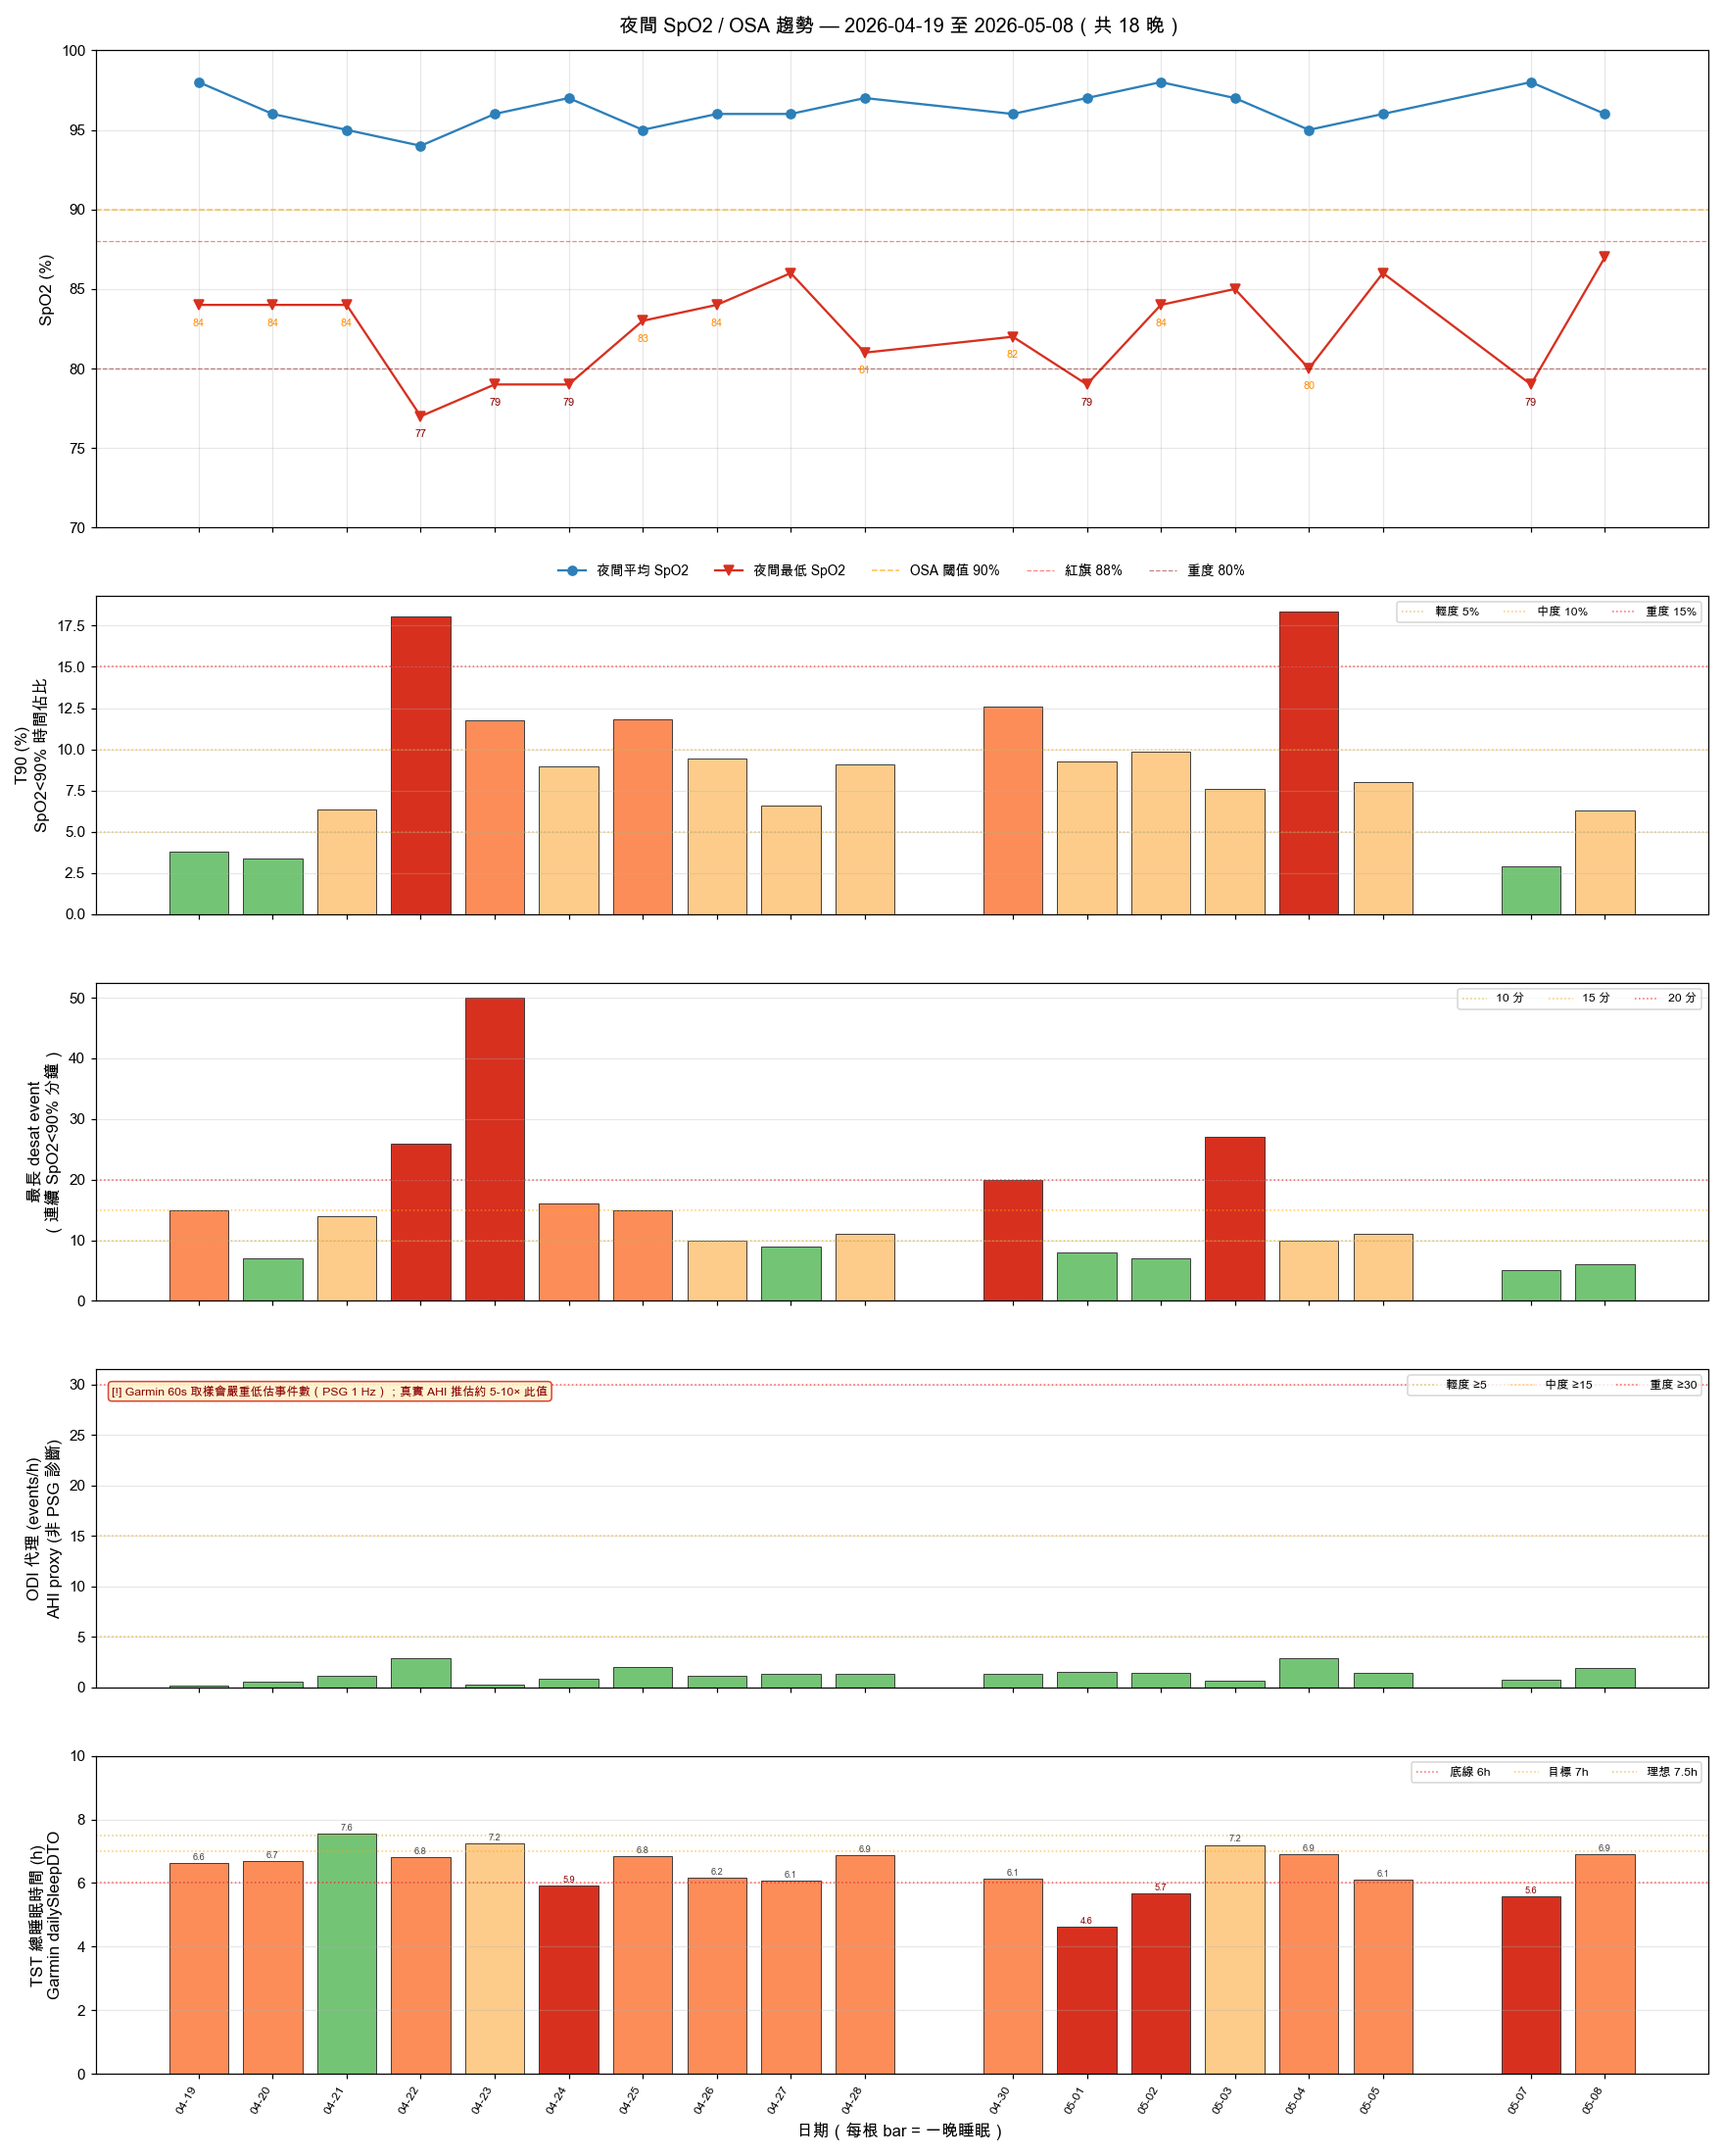
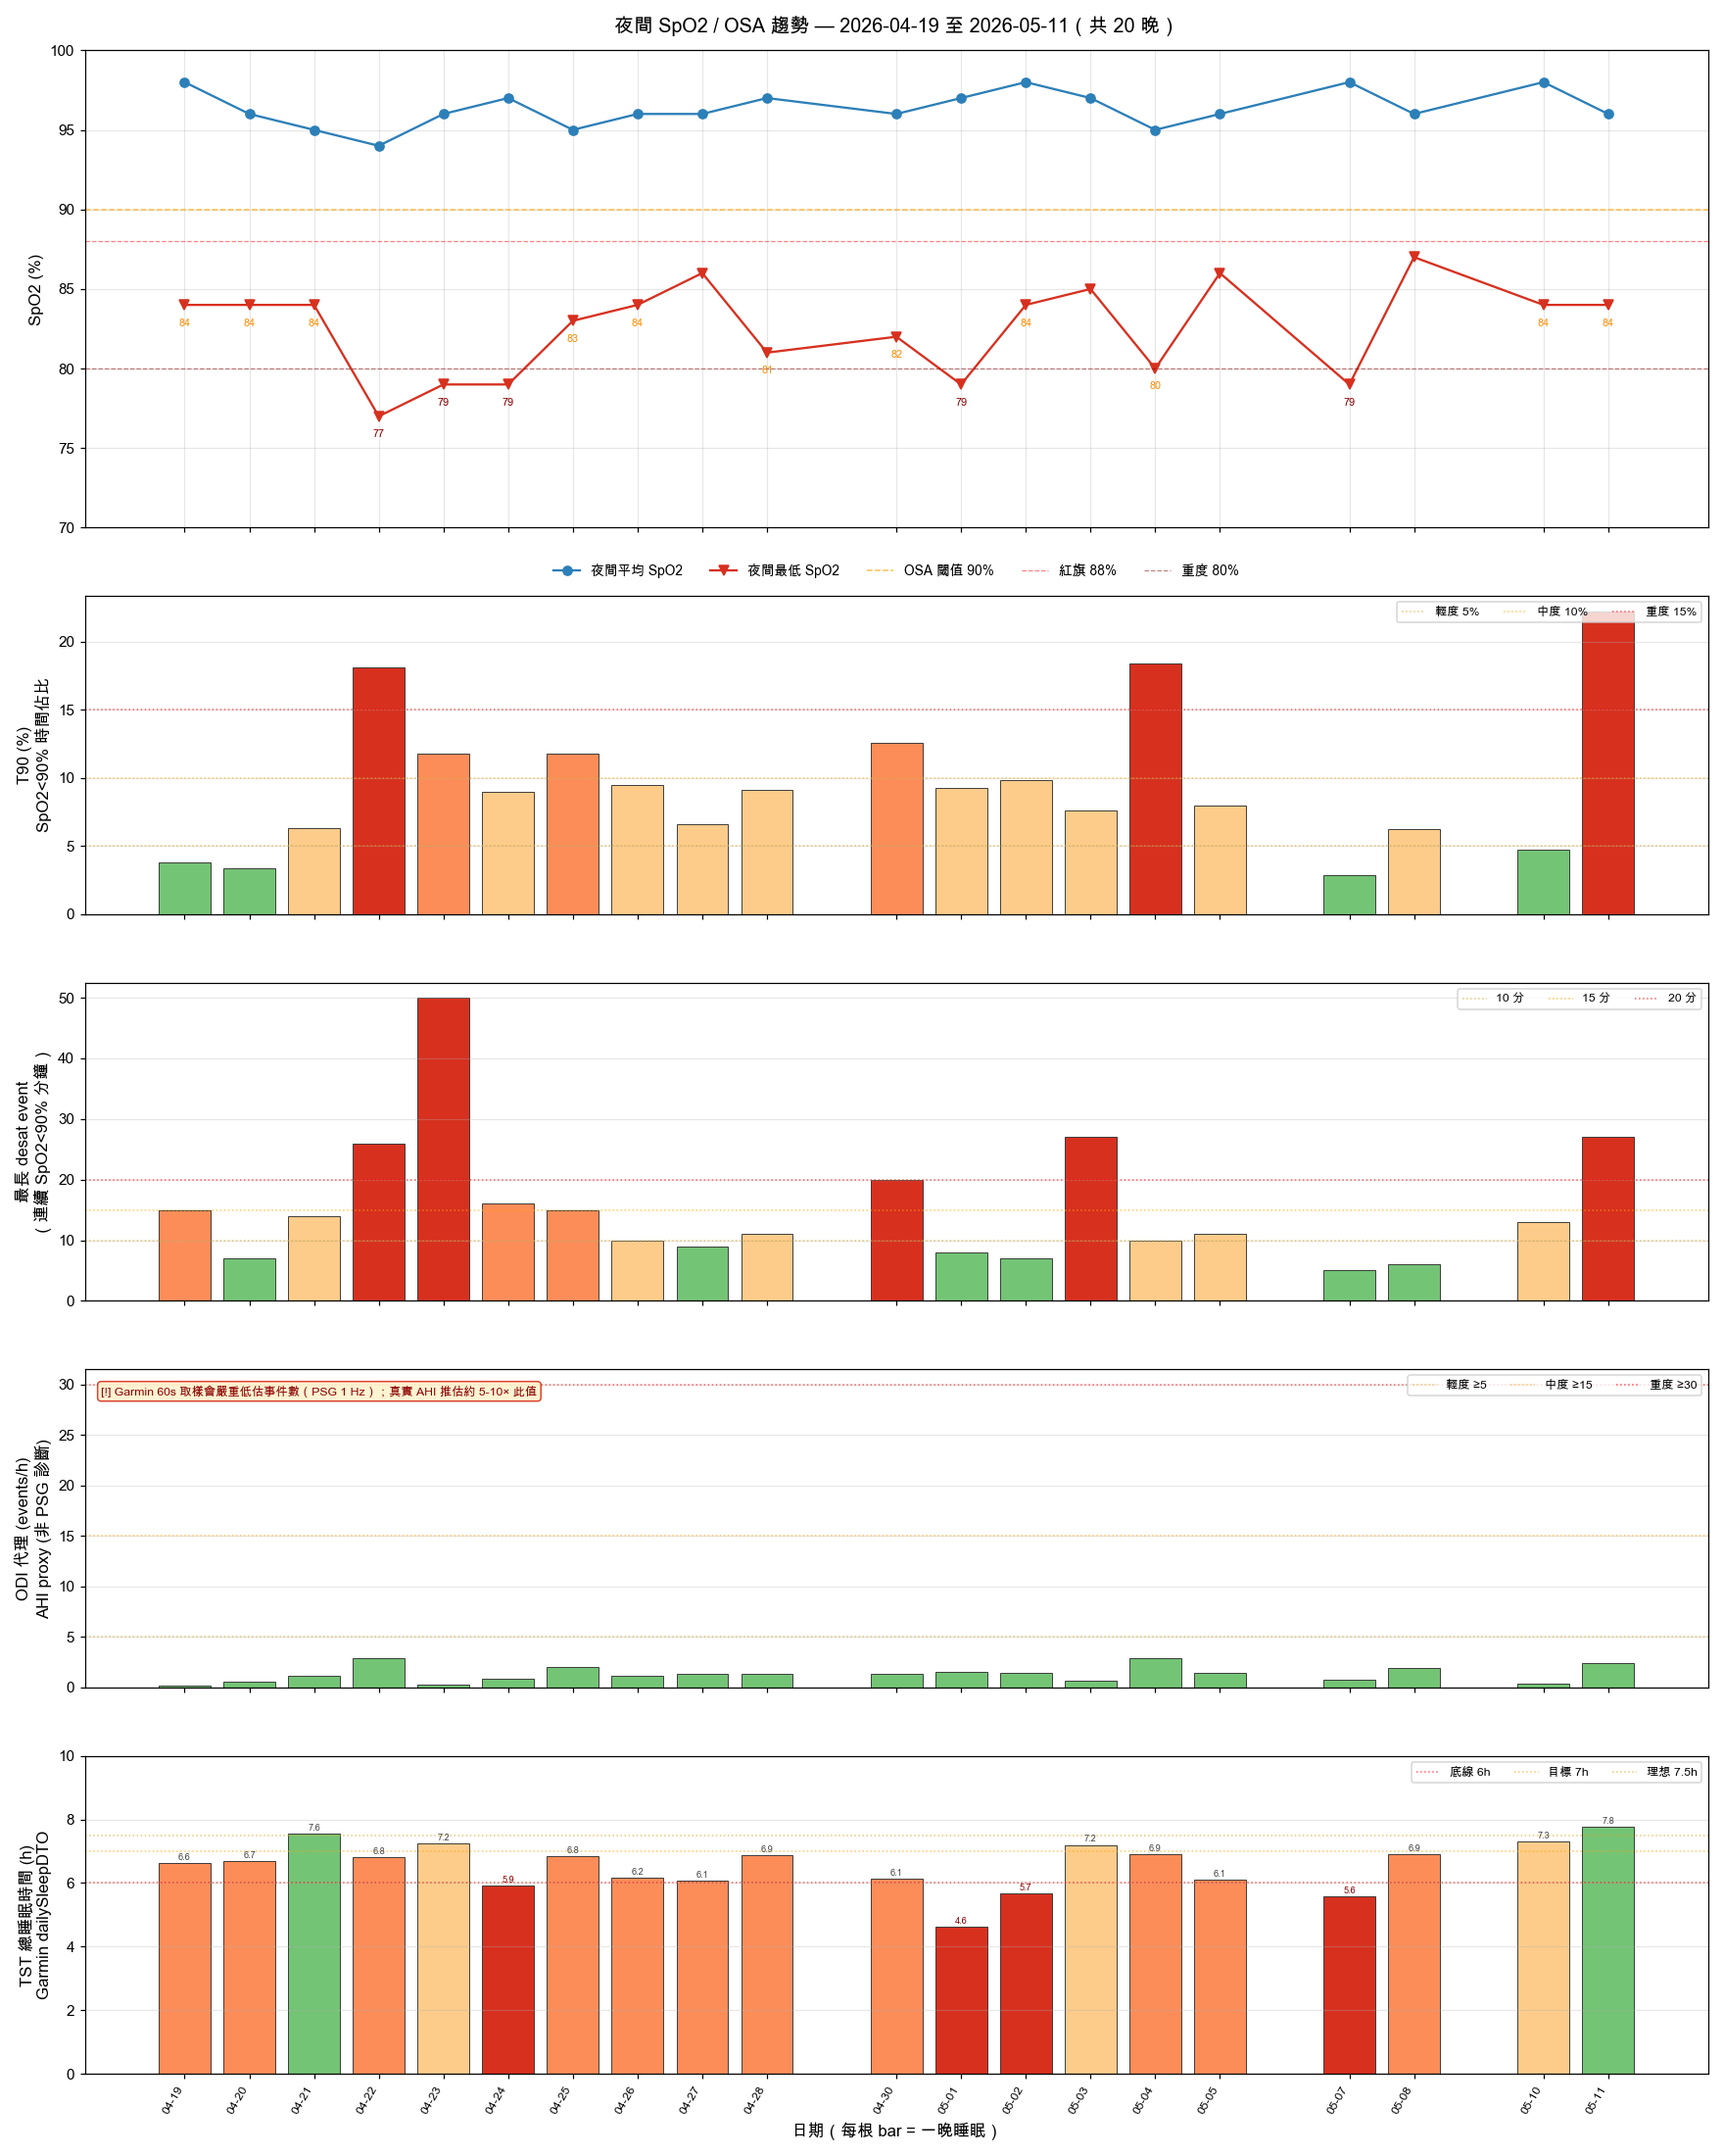
daily check-in 2026-05-11
- 體重 68.7kg / 體脂 20.3% / 內臟脂肪 9.5
- BP 126/74/68（第二次）
- Sleep Score 79 / BB 55 / 主觀恢復 3
- SpO2 最低 84%，T90 22.2%（近期最差）→ OSA 紅旗
- 昨日飲水 1.5L（已回寫 Garmin，低於 2.0L 警示）
- 身體信號：雙肩緊繃 3

diff --git a/data.js b/data.js
@@ -9,8 +9,8 @@ window.HC_DATA = {
     lede:    { en: "Sleep, BP, lipids, uric acid — one shared metabolic root. Lifestyle stacks first; medication only after lifestyle plateaus.",
                zh: "睡眠、血壓、血脂、尿酸——共享同一個代謝根源。生活方式介入優先，等到效果平台期再考慮藥物。" },
     progressLbl: { en: "Weight progress · 70 → 65 kg", zh: "體重進度 · 70 → 65 公斤" },
-    progressMeta: { en: "Day 54 · 68.0 kg · Sat official (5/9)", zh: "第 54 天 · 68.0 公斤 · 週六正式（5/9）" },
-    startDate: { en: "Start date · Mar 17, 2026 · Last sync 5/9", zh: "起始日期 · 2026 年 3 月 17 日 · 最後同步 5/9" },
+    progressMeta: { en: "Day 56 · 68.0 kg · Sat official (5/9)", zh: "第 56 天 · 68.0 公斤 · 週六正式（5/9）" },
+    startDate: { en: "Start date · Mar 17, 2026 · Last sync 5/11", zh: "起始日期 · 2026 年 3 月 17 日 · 最後同步 5/11" },
     startWeight: 70,
     targetWeight: 65,
     currentWeight: 68.0,
@@ -20,14 +20,14 @@ window.HC_DATA = {
   markers: [
     {
       sys: "heart", name: { en: "Blood Pressure", zh: "血壓" },
-      val: "124/72", unit: "mmHg",
-      delta: { en: "W18 weekly avg (4 days) · target met (<130) · last 123/76 (5/9)", zh: "W18 週均（4 天）· 已達標 (<130) · 最新 123/76 (5/9)" },
+      val: "126/76", unit: "mmHg",
+      delta: { en: "W19 weekly avg (4 days) · target met (<130) · last 126/74 (5/11)", zh: "W19 週均（4 天）· 已達標 (<130) · 最新 126/74 (5/11)" },
       cadence: { en: "Daily · weekly avg", zh: "每日 · 週均" },
       status: "ok",
     },
     {
       sys: "sleep", name: { en: "Sleep Score", zh: "睡眠分數" },
-      val: "78", unit: "Garmin",
+      val: "79", unit: "Garmin",
       delta: { en: "5/4 · OSA flag: T90 18.4% (severe)", zh: "5/4 · OSA 紅旗：T90 18.4%（重度）" },
       cadence: { en: "Daily · Garmin", zh: "每日 · Garmin" },
       status: "warn",
@@ -820,14 +820,14 @@ window.HC_DATA = {
   tracker: {
     // [SBP, DBP] — gaps filled with prior reading
     bp: [
-      [122,70], [129,75], [127,75], [127,72], [127,72], [127,72], [127,72], [113,68], [113,68], [113,68], [128,78], [120,73], [131,79], [123,76],
+      [129,75], [127,75], [127,72], [127,72], [127,72], [127,72], [113,68], [113,68], [113,68], [128,78], [120,73], [131,79], [123,76], [126,74],
     ],
     // 4/21–5/4 daily weight (kg)
-    weight: [68.6, 68.9, 68.4, 68.2, 67.8, 67.9, 67.8, 68.7, 69.1, 68.4, 68.2, 68.2, 68.1, 68],
+    weight: [68.9, 68.4, 68.2, 67.8, 67.9, 67.8, 68.7, 69.1, 68.4, 68.2, 68.2, 68.1, 68, 68.7],
     // Garmin Sleep Score
-    sleep:  [64, 64, 69, 64, 71, 52, 69, 77, 77, 71, 75, 68, 78, 78],
+    sleep:  [64, 69, 64, 71, 52, 69, 77, 77, 71, 75, 68, 78, 78, 79],
     // Body Battery waking
-    bb:     [60, 57, 57, 58, 51, 47, 41, 54, 49, 47, 56, 47, 37, 48],
+    bb:     [57, 57, 58, 51, 47, 41, 54, 49, 47, 56, 47, 37, 48, 55],
   },
 
   // ===== Running — started 2026-04-26 =====

diff --git a/reviews/weekly/2026-W20.md b/reviews/weekly/2026-W20.md
@@ -1,0 +1,143 @@
+# 週回顧 — 2026-W20（2026-05-11 – 2026-05-17）
+
+*週日晚間填寫。10 分鐘。回顧本週，不批判，只觀察。*
+
+---
+
+## 〇、半年計畫目標對照
+
+*從 index.html 半年健康逆轉計畫提取。每週檢視自己在哪個位置。*
+
+| 指標 | 當月目標 | 本週實際 | 差距 |
+|------|----------|----------|------|
+| 體重（週六早晨讀數） | _____ kg（第__月目標） | _____ kg | _____ kg |
+| 體脂率 | _____%（目標 ≤ _____%） | _____% | ____% |
+| 內臟脂肪 | _____ （目標 ≤ _____） | _____ | _____ |
+| 收縮壓（週均） | < 130 mmHg（終極 < 125） | _____ mmHg | |
+| Sleep Score（週均） | ≥ 70（進階 ≥ 80） | _____ | |
+| Body Battery 起床值（週均） | ≥ 65（進階 ≥ 75） | _____ | |
+| 每日步數（週均） | ≥ _____ 步（依階段） | _____ 步 | |
+| 每週運動時間 | ≥ _____ 分鐘（依階段） | _____ 分鐘 | |
+
+**半年里程碑參考：**
+- 第 0 月 70.0 kg → 第 1 月 69.2 → 第 2 月 68.3 → 第 3 月 67.5 → 第 4 月 66.7 → 第 5 月 65.8 → 第 6 月 65.0 kg
+- 運動：第 1-2 月 120-150 分/週 → 第 3-4 月 170-210 分/週 → 第 5-6 月 250-300 分/週
+
+---
+
+## 一、數據總覽
+
+### 體重
+
+|  | 一 | 二 | 三 | 四 | 五 | 六 | 日 |
+|--|----|----|----|----|----|----|-----|
+| 體重 (kg) | 68.7 | | | | | | |
+| 體脂率 (%) | 20.3 | | | | | | |
+| 內臟脂肪 | 9.5 | | | | | | |
+
+**本週正式讀數（週六早晨）：** _____ kg｜體脂率：_____%｜內臟脂肪：_____
+**上週正式讀數（週六早晨）：** _____ kg｜體脂率：_____%｜內臟脂肪：_____
+**體重變化：** _____ kg｜體脂率變化：_____%｜內臟脂肪變化：_____
+
+---
+
+### 血壓（第二次讀數）
+
+| 日期 | 收縮壓 | 舒張壓 | 心率 |
+|------|--------|--------|------|
+| 05-11 (一) | 126 | 74 | 68 |
+| 05-12 (二) | | | |
+| 05-13 (三) | | | |
+| 05-14 (四) | | | |
+| 05-15 (五) | | | |
+| 05-16 (六) | | | |
+| 05-17 (日) | | | |
+
+**本週平均：** _____ / _____ mmHg，心率 _____ bpm
+
+*收縮壓週均 > 130 或舒張壓 > 85 → 標記為需關注。*
+
+---
+
+### 睡眠
+
+| 日期 | 就寢 | 起床 | 中途醒 | Sleep Score | Body Battery | 主觀恢復 |
+|------|------|------|--------|-------------|--------------|----------|
+| 05-11 (一) | 21:46 | 06:01 | 0 | 79 | 55 | 3 |
+| 05-12 (二) | | | | | | |
+| 05-13 (三) | | | | | | |
+| 05-14 (四) | | | | | | |
+| 05-15 (五) | | | | | | |
+| 05-16 (六) | | | | | | |
+| 05-17 (日) | | | | | | |
+
+**Sleep Score 週均：** _____ / 100
+**Body Battery 週均：** _____
+**主觀恢復感週均：** _____ / 5
+**連續 < 65 天數：** _____
+**22:30 前就寢天數：** _____ / 7
+
+---
+
+## 二、身體信號模式
+
+*本週 Daily 中記錄的身體信號，標注出現頻率與強度變化。*
+
+| 信號（部位+性質） | 出現天數 | 平均強度 | 趨勢（↑↓→） | 備註 |
+|-------------------|----------|----------|-------------|------|
+| 雙肩 緊繃 | 1 | 3 | → | 首日記錄 |
+
+**反覆出現（≥ 3 天）：** 無
+
+*同一信號連續 3 天以上 → 考慮就醫或調整訓練。*
+
+---
+
+## 三、執行率
+
+### 每日習慣
+
+| 項目 | 完成天數 | 完成率 |
+|------|----------|--------|
+| 飲水 2.5L | / 7 | % |
+| 補充品（洛神花茶 ×2 + 魚油 ×2 + D3K2 3000IU + 酸櫻桃 500mg + 鎂 400mg + Citrulline 2g + Psyllium 5g ×2） | / 7 | % |
+| 運動 | / 7 | % |
+| 活動度/伸展 | / 7 | % |
+
+### 本週運動紀錄
+
+| 日期 | 運動內容（含組數/時間） |
+|------|------------------------|
+| 05-11 | 依預設計畫 |
+
+---
+
+## 四、本週觀察
+
+*一句話描述本週整體狀態。不用完美，誠實就好。*
+
+>
+
+---
+
+## 五、下週調整
+
+*根據本週觀察，列出 1–3 個具體、可執行的調整。不要列太多。*
+
+- [ ]
+- [ ]
+
+---
+
+## 六、恢復策略紀錄
+
+*若本週觸發任何警報（Sleep Score < 65、身體信號 ≥ 3 天、血壓異常），記錄採取的應對措施。*
+
+| 警報 | 應對措施 | 效果 |
+|------|----------|------|
+| SpO2 連續 6/7 晚 < 88%（05-11 T90=22.2%） | 預約 PSG 多項睡眠檢查 | 待 |
+| 昨日飲水 1.5L < 2.0L | 本週重點關注；17:00 前完成 60-70% 目標量 | 待 |
+
+---
+
+*Filed: reviews/weekly/2026-W20.md*

diff --git a/reviews/daily/2026-05-11.md b/reviews/daily/2026-05-11.md
@@ -1,0 +1,84 @@
+# 晨間健康紀錄 — 2026-05-11
+
+*3 分鐘。起床後立即完成。記錄，不分析。*
+
+---
+
+## 體重
+
+**今日：68.7 kg**
+**體脂率：20.3 %**
+**內臟脂肪等級：9.5**
+
+*每週六早晨為正式紀錄（排尿後、進食前；連 5 個工作日後、週末大餐前的真實低點）。其他日可選填。*
+
+---
+
+## 血壓（晨間）
+
+*起床後 1 小時內，上完廁所、進食前。坐下安靜 5 分鐘，連量兩次取第二次。*
+
+| 次數 | 收縮壓 | 舒張壓 | 心率 |
+|------|--------|--------|------|
+| 第一次 | — | — | — |
+| 第二次 | 126 | 74 | 68 |
+
+---
+
+## 睡眠狀態
+
+**實際就寢：** 21:46
+**實際起床：** 06:01
+**中途醒來：** 無
+**Garmin Sleep Score：** 79 / 100
+**Garmin Body Battery 起床值：** 55
+**主觀恢復感：** 3 / 5（1=極度疲憊, 5=精力充沛）
+
+### SpO2 夜間最低（7 晚趨勢）
+
+| 日期 | -6 | -5 | -4 | -3 | -2 | -1 | 今晨 |
+|------|----|----|----|----|----|----|------|
+| 日期 | 05-05 | 05-06 | 05-07 | 05-08 | 05-09 | 05-10 | 05-11 |
+| 最低 % | 86 | 84 | 79 | 87 | — | 84 | 84 |
+
+**今晨日均 SpO2：** 95%
+**< 88% 連續晚數：** 7 晚中 6 晚（05-09 缺檔；今晚 T90 = 22.2% 為近期最差，總 desat 110 分鐘）→ **OSA 紅旗，強烈建議盡快安排 PSG**
+
+**SpO2 全夜圖：** ![](./spo2/spo2_desat_2026-05-11.png)
+**SpO2 趨勢圖：** ![](./spo2/spo2_desat_trend.png)
+**SpO2 多晚 Overlay（rolling 7 晚）：** ![](./spo2/spo2_overlay_2026-05-05_to_2026-05-11_elapsed.png)
+
+*Sleep Score < 65 或 Body Battery < 50 連續三天 → 重新檢視睡眠修復方案。*
+
+---
+
+## 昨日回顧
+
+**實際飲水量：** 1.5 L（⚠ 低於 2.0L，本週重點關注；目標 ≥ 2.5L；高尿酸最佳 2.8–3.0L；17:00 前完成 60-70%）
+
+---
+
+## 身體信號
+
+*任何張力、疼痛、疲勞、異常 — 或「清」。記位置、性質、強度。*
+
+| 部位 | 性質 | 強度 (0-10) |
+|------|------|-------------|
+| 雙肩 | 緊繃 | 3 |
+
+---
+
+## 今日計畫速記
+
+- [ ] 飲水目標：2.5 L（17:00 前完成主要量）
+- [ ] 補充品：洛神花茶 ×2 杯 + 魚油 ×2 + Vit D3K2 3000 IU + 酸櫻桃 500 mg + 鎂 400 mg + L-Citrulline 2 g + Psyllium husk 5 g ×2（鎂睡前 1-2 hr；D3K2 / Citrulline 晨間隨脂肪餐；Psyllium 午/晚餐前 30 min）
+- [ ] 運動：依預設計畫
+- [ ] 活動度/伸展：雙肩活動度（門框胸肌伸展、肩胛上下繞環、頸後伸）2 組 ×30 秒
+
+---
+
+💡 PT 建議：雙肩緊繃強度 3 — 多為前傾姿勢累積，午後做 2 分鐘門框伸展 + 肩胛後縮 ×15 即可緩解；若連 3 天非「清」再評估。SpO2 連續紅旗為今日最高優先，請本週內預約 PSG。
+
+---
+
+*Filed: reviews/daily/2026-05-11.md*

diff --git a/reports/daily-garmin/2026-05-10.md b/reports/daily-garmin/2026-05-10.md
@@ -1,0 +1,27 @@
+# Garmin 每日摘要 — 2026-05-10
+
+## 睡眠
+- 就寢：23:14｜起床：08:06
+- 總時長：7h 18m
+- 深眠：96 分｜REM：98 分
+- Sleep Score：66
+- Body Battery 起床值：57
+
+## 靜息心率
+- RHR：59.0 bpm
+
+## 壓力
+- 日均：31
+
+## 步數
+- 總計：6,393
+
+## SpO2
+- 日均：97.0%
+- 最低：84%
+
+## 飲水
+- 實際：— （Garmin Connect 未紀錄，請於 check-in 手動輸入）
+- 目標：2.00 L
+
+_Source: data/garmin/2026-05-10.json (gitignored)_

diff --git a/reports/daily-garmin/2026-05-11.md b/reports/daily-garmin/2026-05-11.md
@@ -1,0 +1,28 @@
+# Garmin 每日摘要 — 2026-05-11
+
+## 睡眠
+- 就寢：21:46｜起床：06:01
+- 總時長：7h 47m
+- 深眠：103 分｜REM：103 分
+- Sleep Score：79
+- Body Battery 起床值：55
+
+## 靜息心率
+- RHR：58.0 bpm
+
+## 壓力
+- 日均：26
+
+## 步數
+- 總計：2,870
+
+## SpO2
+- 日均：95.0%
+- 最低：84%
+
+## 飲水
+- 實際：0.00 L
+- 目標：2.00 L
+- 運動流汗耗水：0.16 L
+
+_Source: data/garmin/2026-05-11.json (gitignored)_
